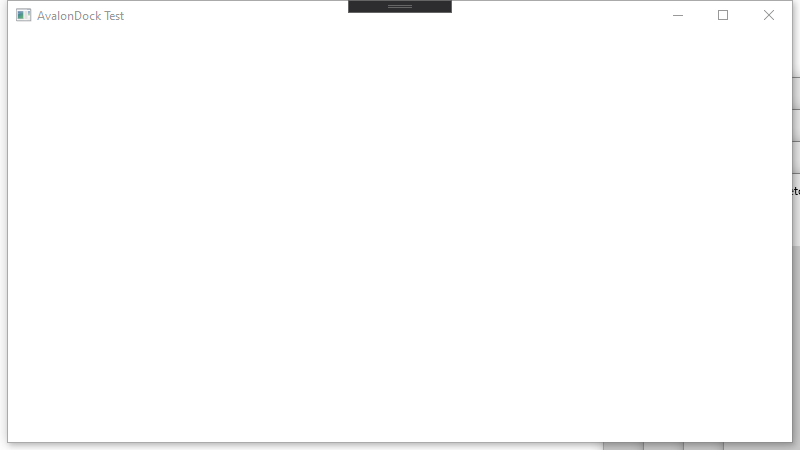
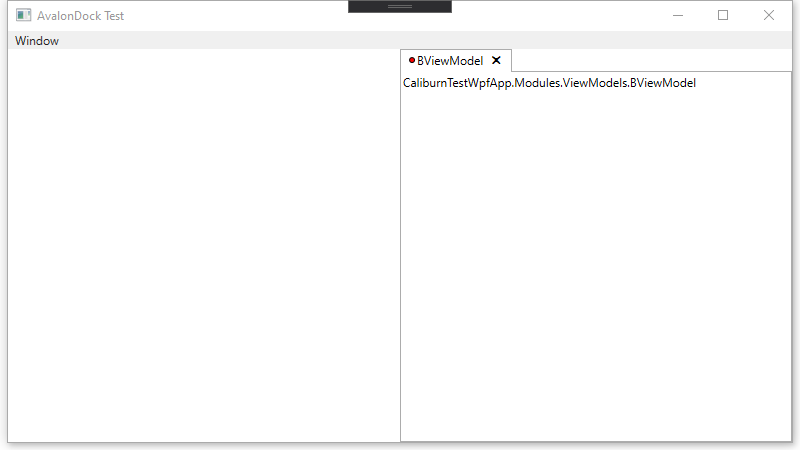
Updated readme and screen shots

diff --git a/SharedTestApp/MainWindowViewModelBase.cs b/SharedTestApp/MainWindowViewModelBase.cs
@@ -35,11 +35,20 @@ namespace CaliburnTestWpfApp.Modules.ViewModels
         {
             Trace.TraceInformation($"{GetType().Name}.OnInitializeAsync");
 
-            ActivateOrCreate<AViewModel>();
-            ActivateOrCreate<BViewModel>();
-            ActivateOrCreate<CViewModel>();
+
+            Task.Run(() => StartInitialDocuments());
 
             return base.OnInitializeAsync(cancellationToken);
+        }
+
+        protected async Task StartInitialDocuments()
+        {
+            await Task.Delay(100);
+            await ActivateOrCreate<AViewModel>();
+            await Task.Delay(100);
+            await ActivateOrCreate<BViewModel>();
+            await Task.Delay(100);
+            await ActivateOrCreate<CViewModel>();
         }
     }
 }

diff --git a/readme.md b/readme.md
@@ -27,20 +27,10 @@ Using AvalonDock and Caliburn.Micro, if a displayed item overrides the `Screen.C
 
 ![Still prompted to close](doc/AvalonDock_App_4_StillPromptsUserOnClose.png)
 
+5. Snoop shows the `PART_SelectedContentHost` is empty and Width is 0.
 
-# Comparison App with TabControl
+![Still prompted to close](doc/AvalonDock_App_5_SnoopAfterCloseCancelled.png)
 
-In this application, I just used a `TabControl` for comparison.
+6. If you use the menu to recreate A, B, and C, only A and C are visible in AvalonDock. This is because B was never actually closed and still exists, just not shown in AvalonDock.
 
-1. Start CaliburnTestWpfApp
-
-![Initial TabControl Test App](doc/TabControl_App_1_AllDocuments.png)
-
-2. Click the main application close "X" button, and a message box appears for BViewModel
-
-![B asks to close](doc/TabControl_App_2_MessageBox.png)
-
-3. Click the "No" button in the message box. Only document "B" remains
-
-![No Documents](doc/TabControl_App_3_OnlyBRemains.png)
-
+![Still prompted to close](doc/AvalonDock_App_6_RecreateNewDocuments.png)
